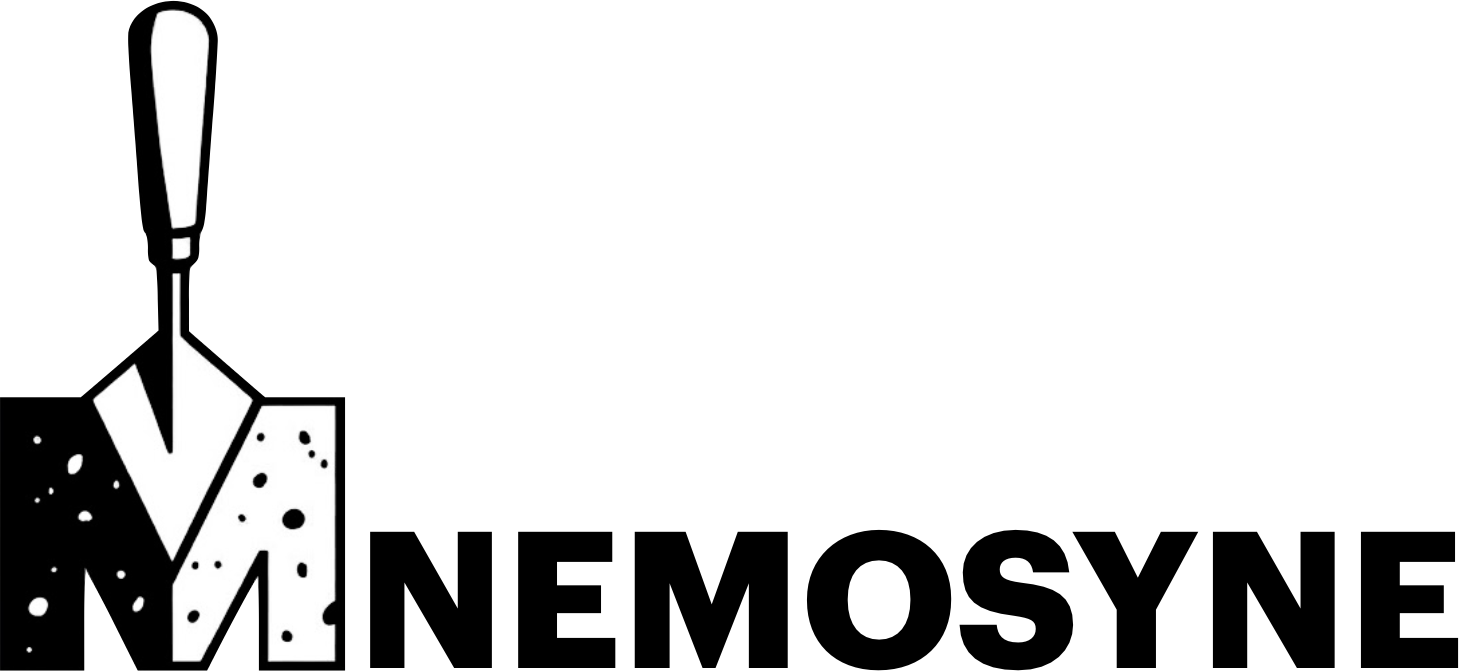
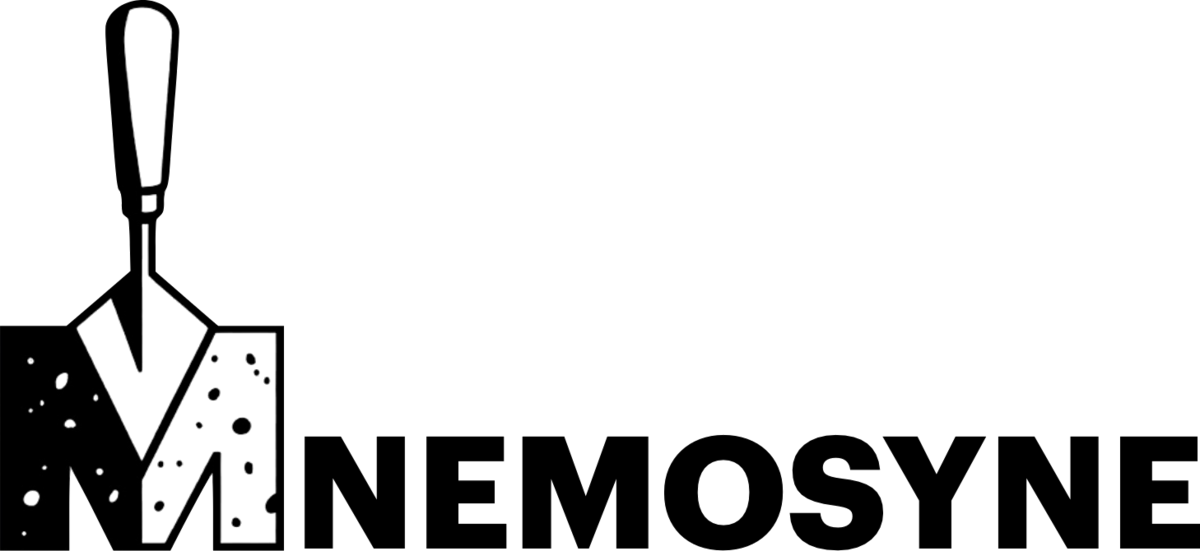
Add files via upload

diff --git a/assets/css/style.css b/assets/css/style.css
@@ -43,7 +43,13 @@ a:hover { color: var(--terracotta); }
   background: rgba(245, 241, 232, .94);
 }
 .site-brand { display: flex; align-items: center; gap: .7rem; text-decoration: none; }
-.site-brand img { width: 34px; height: 46px; object-fit: contain; }
+.site-brand img {
+  width: 30px;
+  height: 48px;
+  object-fit: contain;
+  object-position: center;
+  mix-blend-mode: multiply;
+}
 .site-brand span { font: 600 .9rem/1 var(--sans); letter-spacing: .16em; }
 .site-nav { display: flex; gap: 2rem; }
 .site-nav a { font: 500 .78rem/1 var(--sans); letter-spacing: .1em; text-decoration: none; text-transform: uppercase; }
@@ -73,13 +79,19 @@ a:hover { color: var(--terracotta); }
 .hero {
   display: grid;
   place-items: center;
-  min-height: min(68vh, 720px);
-  padding: 4rem 1.5rem 5rem;
+  min-height: min(54vh, 580px);
+  padding: 3rem 1.5rem 4rem;
   background: var(--paper-light);
   border-bottom: 1px solid var(--line);
 }
-.hero__identity { width: min(1050px, 94vw); text-align: center; }
-.hero__wordmark { width: 100%; max-height: 430px; margin: 0 auto; object-fit: contain; }
+.hero__identity { width: min(760px, 86vw); text-align: center; }
+.hero__wordmark {
+  width: 100%;
+  max-height: 315px;
+  margin: 0 auto;
+  object-fit: contain;
+  mix-blend-mode: multiply;
+}
 .hero__deck { margin: 1.4rem 0 0; color: var(--muted); font-style: italic; font-size: clamp(1.1rem, 2vw, 1.5rem); }
 
 .featured, .recent, .page-shell, .article-shell, .empty-state {
@@ -161,7 +173,7 @@ a:hover { color: var(--terracotta); }
   .menu-button { display: block; border: 0; background: none; font: 500 .75rem/1 var(--sans); text-transform: uppercase; letter-spacing: .09em; }
   .site-nav { display: none; position: absolute; left: 0; right: 0; top: 100%; padding: 1.5rem; flex-direction: column; background: var(--paper); border-bottom: 1px solid var(--line); }
   .site-nav.is-open { display: flex; }
-  .hero { min-height: 52vh; padding-block: 2.5rem 3.5rem; }
+  .hero { min-height: 44vh; padding-block: 2.25rem 3rem; }
   .featured { padding: 4rem 0; }
   .featured__grid, .archive-item { grid-template-columns: 1fr; }
   .article-grid { grid-template-columns: 1fr; }
